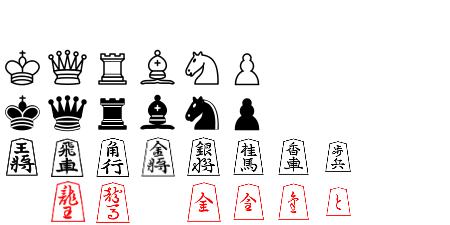
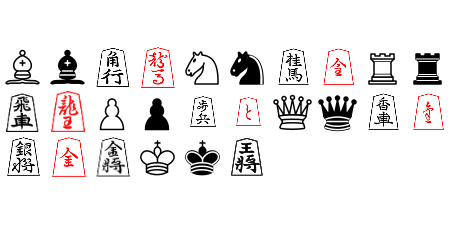
Waq

diff --git a/src/TileMaps.cpp b/src/TileMaps.cpp
@@ -1,5 +1,6 @@
 #include <SFML/Graphics.hpp>
 #include <string>
+#include <vector>
 #include "Piece.h"
 
 class TiledMap : public sf::Drawable, public sf::Transformable {
@@ -59,7 +60,7 @@ private:
 
 class PieceMap : public sf::Drawable, public sf::Transformable {
 public:
-	bool load(const std::string& tileset, sf::Vector2u tileSize, const int* tiles, unsigned int width, unsigned int height, sf::Vector2u offset) {
+	bool load(const std::string& tileset, sf::Vector2u tileSize, std::vector<Piece> pieces, unsigned int width, unsigned int height, sf::Vector2u offset) {
 		//load the tileset texture
 		if(!m_tileset.loadFromFile(tileset))
 			return false;
@@ -72,7 +73,7 @@ public:
 		for (unsigned int x = 0; x < width; x++) {
 			for (unsigned int y = 0; y < height; y++) {
 				//get the current tile number
-				int tileNumber = abs(tiles[x + y * width]);
+				int tileNumber = pieces[x + y * width].getTilemap();
 
 				//find its position in the tileset texture
 				int tx = tileNumber % 10;
@@ -88,7 +89,7 @@ public:
 				quad[3].position = sf::Vector2f(x * tileSize.x + offset.x, (y + 1) * tileSize.y + offset.y);
 
 				//define its 4 texture coords
-				bool flip = tiles[x + y * width] < 0;
+				bool flip = false; //tiles[x + y * width] < 0;
 				quad[flip ? 2 : 0].texCoords = sf::Vector2f(tx * tileSize.x, ty * tileSize.y);
 				quad[flip ? 3 : 1].texCoords = sf::Vector2f((tx + 1) * tileSize.x, ty * tileSize.y);
 				quad[flip ? 0 : 2].texCoords = sf::Vector2f((tx + 1) * tileSize.x, (ty + 1) * tileSize.y);

diff --git a/src/test.cpp b/src/test.cpp
@@ -4,6 +4,7 @@
 #include <vector>
 #include "TileMaps.cpp"
 #include "Piece.h"
+#include "BoardConstructor.cpp"
 
 int main() {
   sf::RenderWindow window(sf::VideoMode(855,495), "SFML works!");
@@ -40,12 +41,13 @@ int main() {
 		+00, +32, +00, +00, +00, +00, +00, +31, +00,
 		+36, +35, +34, +33, +30, +33, +34, +35, +36
 	};
+	//board constructor
+	std::vector<Piece> pieces = createBoard();
 	PieceMap boardMap;
-	if (!boardMap.load("../resources/images/Pieces.png", sf::Vector2u(45, 45), board, 9, 9, sf::Vector2u(5 * 45, 45)))
+	if (!boardMap.load("../resources/images/Pieces.png", sf::Vector2u(45, 45), pieces, 9, 9, sf::Vector2u(5 * 45, 45)))
 		return -1;
 
 	//highlighting
-	//create the background
 	std::string high = "00000000000000000" +
 				(std::string)"00000000000200000" +
 				(std::string)"00000000001000000" +
@@ -86,7 +88,7 @@ int main() {
 
 		//update tilemaps
 		if (redraw) {
-			boardMap.load("../resources/images/Pieces.png", sf::Vector2u(45, 45), board, 9, 9, sf::Vector2u(5 * 45, 45));
+			boardMap.load("../resources/images/Pieces.png", sf::Vector2u(45, 45), pieces, 9, 9, sf::Vector2u(5 * 45, 45));
 			highMap.load("../resources/images/Highlights.png", sf::Vector2u(45, 45), high, 17, 9, sf::Vector2u(45, 45));
 			redraw = false;
 		}

diff --git a/src/BoardConstructor.cpp b/src/BoardConstructor.cpp
@@ -1,0 +1,23 @@
+#include "Piece.h"
+#include <vector>
+
+
+std::vector<Piece> createBoard() {
+	std::vector<Piece> pieces;
+	Piece* temp;
+	for (int i = 0; i < 4; i++) {
+		temp = new Rook(1, 0);
+		pieces.push_back(*temp);
+		temp = new Bishop(1, 0);
+		pieces.push_back(*temp);
+	}
+	temp = new Queen(1);
+	pieces.push_back(*temp);
+	for (int i = 0; i < 8; i++) {
+		for (int j = 0; j < 9; j++) {
+			temp = new Piece();
+			pieces.push_back(*temp);
+		}
+	}
+	return pieces;
+}
